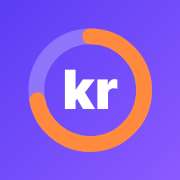
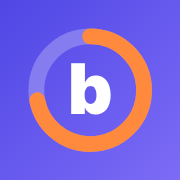
Nyt navn: Budgie
Claude-Session: https://claude.ai/code/session_015q19rGiCtgi8tMgMZYksDa

Changed region(s): [[0.3333, 0.3333, 0.6667, 0.6389]]

diff --git a/app.html b/app.html
@@ -3,12 +3,12 @@
 <head>
 <meta charset="utf-8">
 <meta name="viewport" content="width=device-width, initial-scale=1, viewport-fit=cover">
-<title>KRONEN – budget for unge</title>
+<title>Budgie – budget for unge</title>
 <meta name="theme-color" content="#f7f7f9">
 <meta name="apple-mobile-web-app-capable" content="yes">
 <meta name="mobile-web-app-capable" content="yes">
 <meta name="apple-mobile-web-app-status-bar-style" content="default">
-<meta name="apple-mobile-web-app-title" content="KRONEN">
+<meta name="apple-mobile-web-app-title" content="Budgie">
 <link rel="manifest" href="manifest.webmanifest">
 <link rel="icon" href="icons/icon-192.png">
 <link rel="apple-touch-icon" href="icons/apple-touch-icon.png">
@@ -275,8 +275,8 @@ function renderAuth(){
   const signup=authMode==='signup';
   $('#root').innerHTML=`<div class="auth">
     <img class="mark" src="icons/icon-192.png" alt="">
-    <h1>${signup?'Opret din konto':hasFirebase?'Velkommen tilbage':'Velkommen til KRONEN'}</h1>
-    <p class="sub">${!hasFirebase?'Hold styr på dine penge – nemt og overskueligt.':signup?'Få styr på dine penge på 2 minutter. Dine data gemmes sikkert, så du kan bruge KRONEN på alle dine enheder.':'Log ind for at se dit budget.'}</p>
+    <h1>${signup?'Opret din konto':hasFirebase?'Velkommen tilbage':'Velkommen til Budgie'}</h1>
+    <p class="sub">${!hasFirebase?'Hold styr på dine penge – nemt og overskueligt.':signup?'Få styr på dine penge på 2 minutter. Dine data gemmes sikkert, så du kan bruge Budgie på alle dine enheder.':'Log ind for at se dit budget.'}</p>
     ${hasFirebase?`
     <form id="authForm">
       ${signup?`<label>Fornavn<input name="name" autocomplete="given-name" required placeholder="Fx Emma"></label>`:''}
@@ -582,7 +582,7 @@ async function copyTsv(){const ta=$('#tsv');try{await navigator.clipboard.writeT
 function profileSheet(){
   openSheet(`<div style="display:flex;align-items:center;gap:14px;margin-bottom:18px"><div class="avatar" style="width:52px;height:52px;font-size:20px;cursor:default">${esc(initials())}</div>
     <div><div style="font-weight:700;font-size:17px">${esc(S.name||'Din profil')}</div><div style="color:var(--muted);font-size:13.5px">${user?esc(user.email||''):'Demo – gemmes kun på denne enhed'}</div></div></div>
-  <div class="row" style="border:1px solid var(--line);border-radius:16px;padding:12px 14px;margin-bottom:14px"><div class="g"><div class="t">${S.premium?'KRONEN Premium':'Gratis'}</div><div class="s">${S.premium?'Alle funktioner er låst op':'1 budget · 3 kategorier · 1 sparemål'}</div></div>
+  <div class="row" style="border:1px solid var(--line);border-radius:16px;padding:12px 14px;margin-bottom:14px"><div class="g"><div class="t">${S.premium?'Budgie Premium':'Gratis'}</div><div class="s">${S.premium?'Alle funktioner er låst op':'1 budget · 3 kategorier · 1 sparemål'}</div></div>
     <button class="btn sm" onclick="premiumSheet()">${S.premium?'Se':'Opgrader'}</button></div>
   <form onsubmit="event.preventDefault();S.name=new FormData(this).get('n').trim();save();closeSheet();render()"><label>Dit navn<input name="n" value="${esc(S.name)}"></label><button class="btn sec2">Gem navn</button></form>
   <div style="display:flex;flex-direction:column;gap:10px;margin-top:10px">
@@ -597,7 +597,7 @@ function confirmReset(kind){
   return false;
 }
 function premiumSheet(){
-  openSheet(`<h3>KRONEN Premium</h3>
+  openSheet(`<h3>Budgie Premium</h3>
   <div style="font-size:34px;font-weight:800;letter-spacing:-.03em;margin-top:-8px">29 kr.<span style="font-size:15px;color:var(--muted);font-weight:500"> / måned</span></div>
   <div style="margin:14px 0 18px">
   ${[['star','Ubegrænsede sparemål','Spar op til flere ting på én gang'],['chart','Årsoverblik','Se hele året i ét diagram'],['bell','Påmindelser','Se hvad der trækkes de næste 7 dage'],['file','Eksport til Excel','Få dine tal ud i et regneark'],['wallet','Ubegrænsede kategorier','Gratis har 3']].map(f=>`<div class="feat"><div class="ico">${ic(f[0])}</div><div><b>${f[1]}</b><small>${f[2]}</small></div></div>`).join('')}
@@ -613,7 +613,7 @@ function showInstall(){
   const el=$('#install'); if(!el||standalone||framed) return;
   let x=false;try{x=localStorage.getItem('kronen-install-x')}catch(e){} if(x) return;
   let html='';
-  if(deferredPrompt) html=`Gem KRONEN på din hjemmeskærm <button class="btn sm" style="margin-left:auto" onclick="doInstall()">Installér</button>`;
+  if(deferredPrompt) html=`Gem Budgie på din hjemmeskærm <button class="btn sm" style="margin-left:auto" onclick="doInstall()">Installér</button>`;
   else if(/iphone|ipad|ipod/i.test(navigator.userAgent)) html=`<div>Gem på hjemmeskærmen: tryk ${ic('share','style="width:16px;height:16px;vertical-align:-3px"')} og vælg <b>Føj til hjemmeskærm</b>.</div>`;
   if(!html) return;
   el.innerHTML=`<div class="note info" style="gap:8px">${html}<button class="icon-btn" style="color:inherit" onclick="try{localStorage.setItem('kronen-install-x',1)}catch(e){};this.parentNode.remove()">${ic('x')}</button></div>`;

diff --git a/index.html b/index.html
@@ -3,7 +3,7 @@
 <head>
 <meta charset="utf-8">
 <meta name="viewport" content="width=device-width, initial-scale=1">
-<title>KRONEN – budget for unge</title>
+<title>Budgie – budget for unge</title>
 <meta name="theme-color" content="#5b3df5">
 <link rel="manifest" href="manifest.webmanifest">
 <link rel="icon" href="icons/icon-192.png">
@@ -24,7 +24,7 @@ body{margin:0;min-height:100vh;font-family:system-ui,-apple-system,"Segoe UI",Ro
 </style>
 </head>
 <body>
-  <div class="phone"><div class="screen"><iframe src="app.html" title="KRONEN app"></iframe></div></div>
+  <div class="phone"><div class="screen"><iframe src="app.html" title="Budgie app"></iframe></div></div>
 <script>
   // Lad telefonen fylde skærmens højde
   const fit=()=>{const ph=document.querySelector('.phone');const h=Math.min(innerHeight-24,(innerWidth-24)*844/390);

diff --git a/sw.js b/sw.js
@@ -1,4 +1,4 @@
-const CACHE='kronen-v4';
+const CACHE='budgie-v5';
 const FILES=['./','./index.html','./app.html','./firebase-config.js','./manifest.webmanifest','./icons/icon-192.png','./icons/icon-512.png','./icons/apple-touch-icon.png'];
 self.addEventListener('install',e=>{e.waitUntil(caches.open(CACHE).then(c=>c.addAll(FILES)));self.skipWaiting()});
 self.addEventListener('activate',e=>{e.waitUntil(caches.keys().then(k=>Promise.all(k.filter(x=>x!==CACHE).map(x=>caches.delete(x)))));self.clients.claim()});

diff --git a/firebase-config.js b/firebase-config.js
@@ -1,4 +1,4 @@
-// Firebase-opsætning for KRONEN.
+// Firebase-opsætning for Budgie.
 // Indsæt værdierne fra Firebase-konsollen (Projektindstillinger → Dine apps → Web-app).
 // Så længe apiKey er tom, kører appen i demo-tilstand uden login.
 window.FIREBASE_CONFIG = {

diff --git a/README.md b/README.md
@@ -1,0 +1,14 @@
+# Budgie – budget for unge
+
+Enkel budget-app for unge: én stor cirkel viser, hvor mange penge du har tilbage denne måned.
+
+- Løn, lommepenge og faste udgifter
+- Kategorier med grænser og advarsler
+- Sparemål
+- Månedsrapport, årsoverblik og eksport til Excel (Premium)
+- Login med e-mail eller Google – data gemmes i Firebase
+- Kan gemmes på hjemmeskærmen (PWA)
+
+Live: https://flowersmokeapp.github.io/Kronen/
+
+Login slås til ved at udfylde `firebase-config.js` og bruge reglerne i `firestore.rules`.
